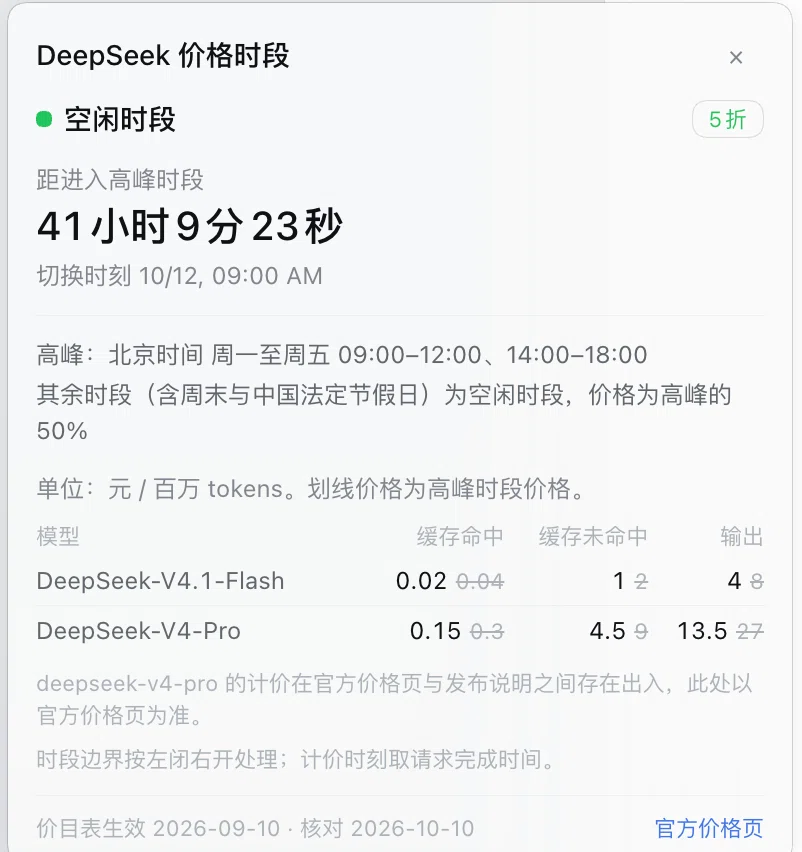
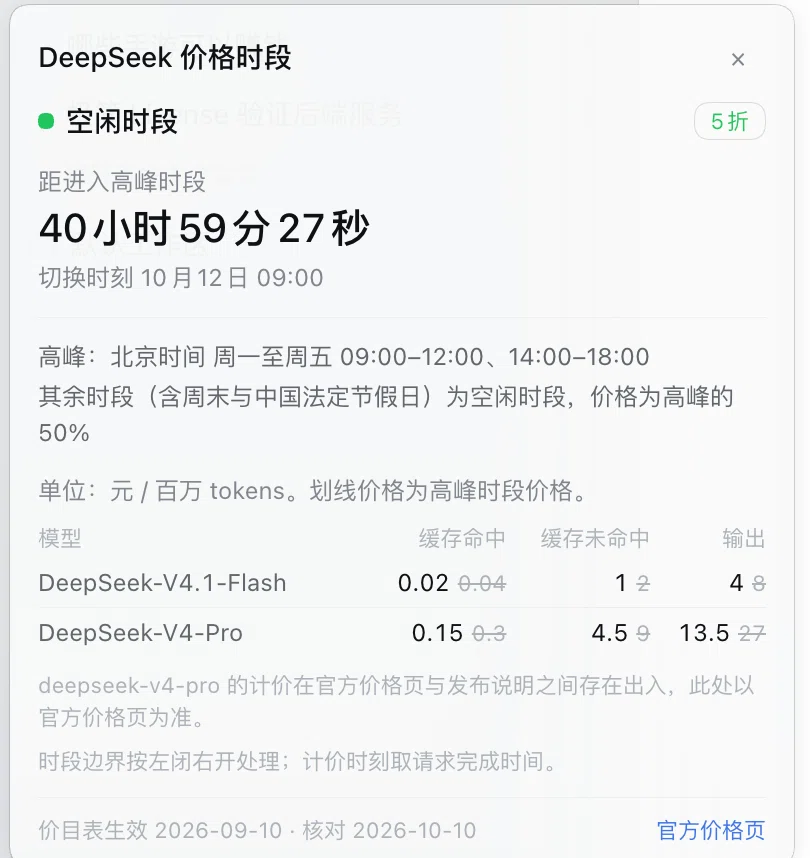
docs: 用修正后的面板截图替换「摄于修正前」的旧图
- docs/screenshot-panel.png：新实拍，切换时刻为中文界面下的 `10 月 12 日 09:00`
  （24 小时制 + 中文日期），倒计时 `40 小时 59 分 27 秒`；裁掉面板下方露出的一小块界面
- README：面板图注改为说明「切换时刻跟随界面语言」，撤掉修正前的标注
- verification.md：该条从「待新截图替换」改为已核对，并记录浏览器 ICU 与 Node ICU
  在「月/日」空格上的细微渲染差异

diff --git a/docs/verification.md b/docs/verification.md
@@ -15,16 +15,16 @@
   完整窗口（侧栏底部即本插件；已裁掉底部账号区）：
   ![完整窗口](screenshot-app.png)
 
-- **详情面板（真实渲染截图）**：点击标记展开的面板实拍——状态行与 5 折标签、实时倒计时（`41 小时 9 分 23 秒`）、
+- **详情面板（真实渲染截图）**：点击标记展开的面板实拍——状态行与 5 折标签、实时倒计时（`40 小时 59 分 27 秒`）、
   切换时刻、规则文案、价目表（加粗空闲价 + 划线高峰价）、两条口径说明、页脚生效/核对日期与来源链接全部按设计渲染；
   说明槽位注册后的 React 组件、主题 token、locale 文案与价格推导在真实页面里都成立。
+  这张同时确认了「切换时刻跟随界面语言」的修正：中文界面显示 `10 月 12 日 09:00`（中文日期 + 24 小时制），
+  而不是修正前跟随浏览器区域设置的 `10/12, 09:00 AM`。（浏览器 ICU 会在「月/日」两侧留空格，与 Node ICU 的
+  `10月12日` 有细微差异，属正常渲染差异。）
 
   ![展开后的详情面板](screenshot-panel.png)
 
   注意：静态截图能证明**布局与内容**，不能证明交互行为（Escape / 点击空白关闭）——那部分仍只有代码审阅。
-  另外这张图摄于「切换时刻跟随界面语言」修正**之前**，切换时刻显示为 `10/12, 09:00 AM`；
-  修正后的期望值是中文界面 `10月12日 09:00`、英文界面 `Oct 12, 09:00 AM`（`Intl` 实际输出已用
-  Node ICU 78.3 核对过），**待新截图替换后再把本条改为已核对**。
 
 - `node --test test/` — 20 项全绿（含「任意时刻到下次切换之间时段不变」的不变量扫描）。
 - `node scripts/build-client.mjs --check` — 生成物与源一致；`node --check client.js` 语法通过。
